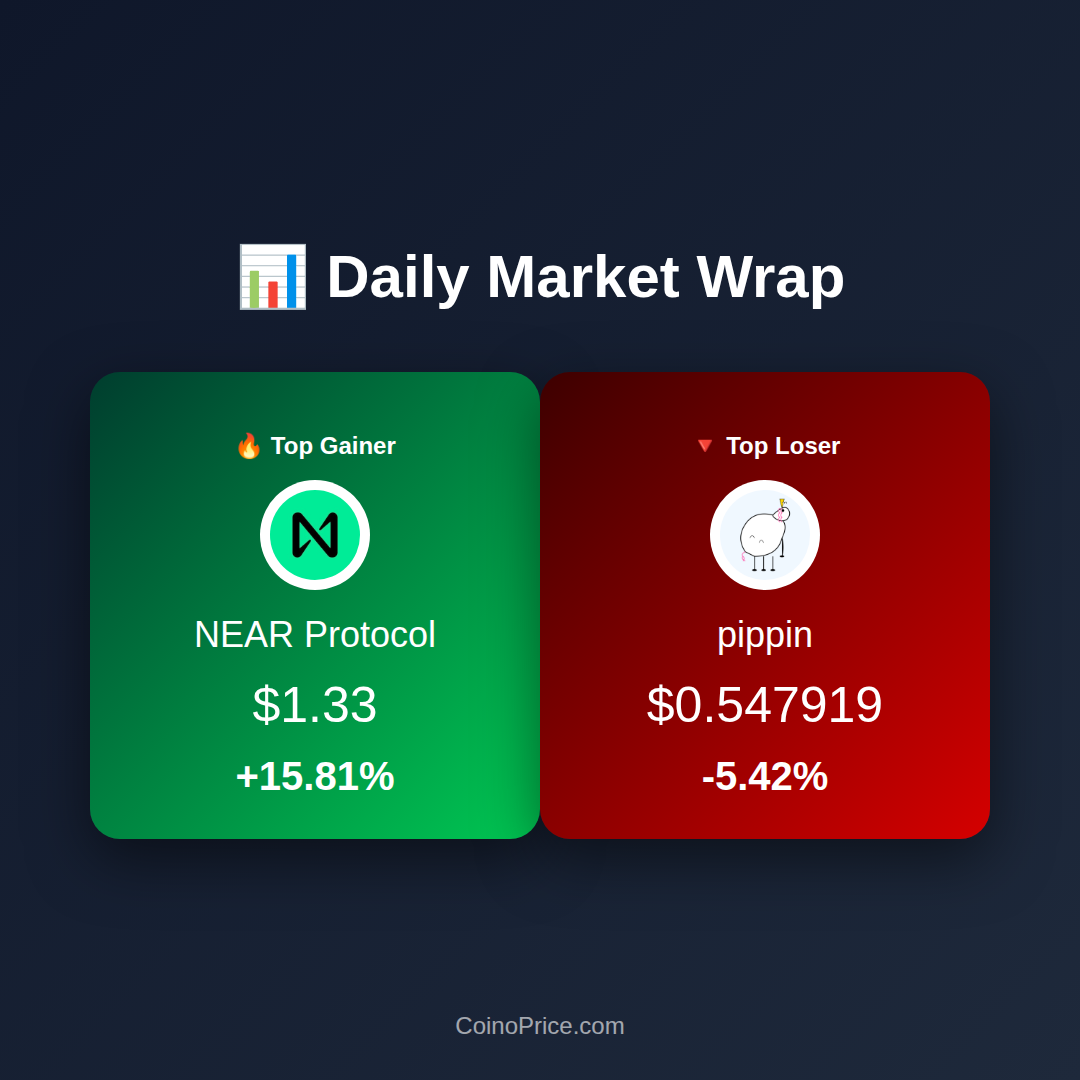
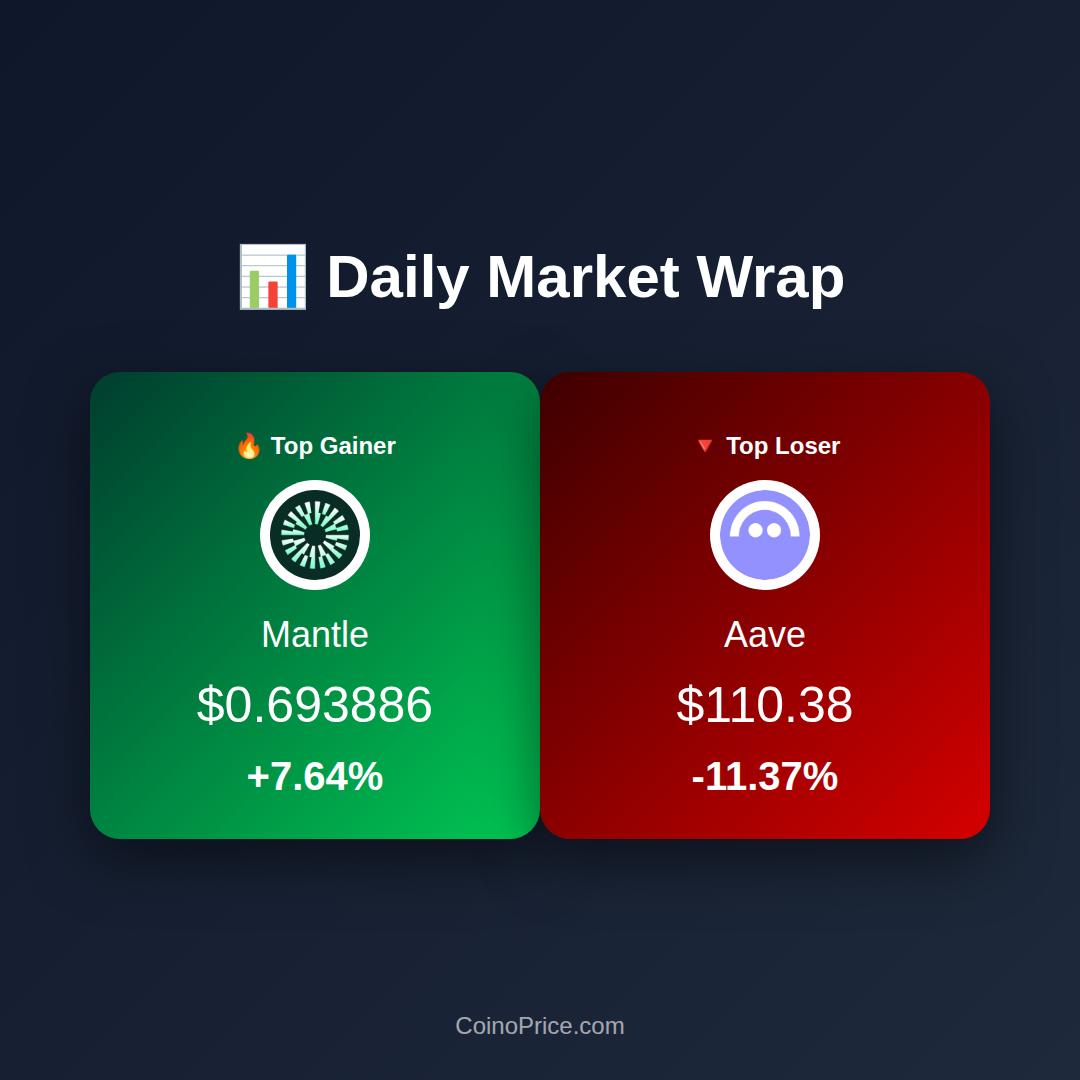
Auto crypto post update

diff --git a/temp.html b/temp.html
@@ -1,109 +1,107 @@
 <!DOCTYPE html>
 <html>
 <head>
+<meta charset="UTF-8">
 <style>
 body {
   margin: 0;
   width: 1080px;
   height: 1080px;
-  font-family: 'Segoe UI', sans-serif;
   background: linear-gradient(135deg, #0f172a, #1e293b);
-  display: flex;
-  align-items: center;
-  justify-content: center;
+  font-family: 'Segoe UI', sans-serif;
   color: white;
+  display: flex;
+  flex-direction: column;
+  justify-content: center;
+  align-items: center;
+}
+
+.title {
+  font-size: 60px;
+  font-weight: bold;
+  margin-bottom: 60px;
+}
+
+.container {
+  width: 900px;
+  display: flex;
+  justify-content: space-between;
 }
 
 .card {
-  width: 900px;
-  padding: 60px;
-  border-radius: 40px;
-  background: rgba(255,255,255,0.05);
-  backdrop-filter: blur(15px);
-  box-shadow: 0 40px 80px rgba(0,0,0,0.5);
+  width: 420px;
+  padding: 40px;
+  border-radius: 30px;
+  text-align: center;
+  box-shadow: 0 20px 60px rgba(0,0,0,0.5);
 }
 
-.header {
-  display: flex;
-  justify-content: space-between;
-  align-items: center;
+.gainer {
+  background: linear-gradient(135deg, #003d2e, #00c853);
+}
+
+.loser {
+  background: linear-gradient(135deg, #3d0000, #d50000);
+}
+
+.card img {
+  width: 90px;
+  height: 90px;
+  background: white;
+  border-radius: 50%;
+  padding: 10px;
+  margin-bottom: 20px;
 }
 
 .coin-name {
-  font-size: 70px;
-  font-weight: 700;
-}
-
-.rank {
-  background: #111827;
-  padding: 12px 30px;
-  border-radius: 50px;
-  font-size: 32px;
+  font-size: 36px;
+  margin-bottom: 10px;
 }
 
 .price {
-  font-size: 120px;
-  margin: 40px 0;
-  font-weight: 700;
-}
-
-.inr {
-  font-size: 40px;
-  opacity: 0.7;
+  font-size: 50px;
+  margin: 20px 0;
 }
 
 .change {
-  font-size: 60px;
+  font-size: 40px;
   font-weight: bold;
-  margin-top: 20px;
-  color: {{color}};
-}
-
-.stats {
-  margin-top: 60px;
-  display: flex;
-  justify-content: space-between;
-  font-size: 36px;
 }
 
 .footer {
-  margin-top: 80px;
-  font-size: 28px;
+  position: absolute;
+  bottom: 40px;
+  font-size: 24px;
   opacity: 0.6;
-  text-align: center;
 }
 </style>
 </head>
 
 <body>
-<div class="card">
 
-  <div class="header">
-    <div class="coin-name">Figure Heloc</div>
-    <div class="rank">#9</div>
+<div class="title">📊 Daily Market Wrap</div>
+
+<div class="container">
+
+  <div class="card gainer">
+    <h2>🔥 Top Gainer</h2>
+    <img src="https://coin-images.coingecko.com/coins/images/30980/large/MNT_Token_Logo.png?1765516974">
+    <div class="coin-name">Mantle</div>
+    <div class="price">$0.693886</div>
+    <div class="change">+7.64%</div>
   </div>
 
-  <div class="price">$1.031</div>
-  <div class="inr">₹{{price_inr}}</div>
-
-  <div class="change">0.18% (24H)</div>
-
-  <div class="stats">
-    <div>
-      <div>Market Cap</div>
-      <div>${{market_cap}}</div>
-    </div>
-    <div>
-      <div>Volume</div>
-      <div>${{volume}}</div>
-    </div>
-  </div>
-
-  <div class="footer">
-    Updated: {{updated_time}}  
-    | CoinoPrice.com
+  <div class="card loser">
+    <h2>🔻 Top Loser</h2>
+    <img src="https://coin-images.coingecko.com/coins/images/12645/large/aave-token-round.png?1720472354">
+    <div class="coin-name">Aave</div>
+    <div class="price">$110.38</div>
+    <div class="change">-11.37%</div>
   </div>
 
 </div>
+
+<div class="footer">CoinoPrice.com</div>
+
 </body>
 </html>
